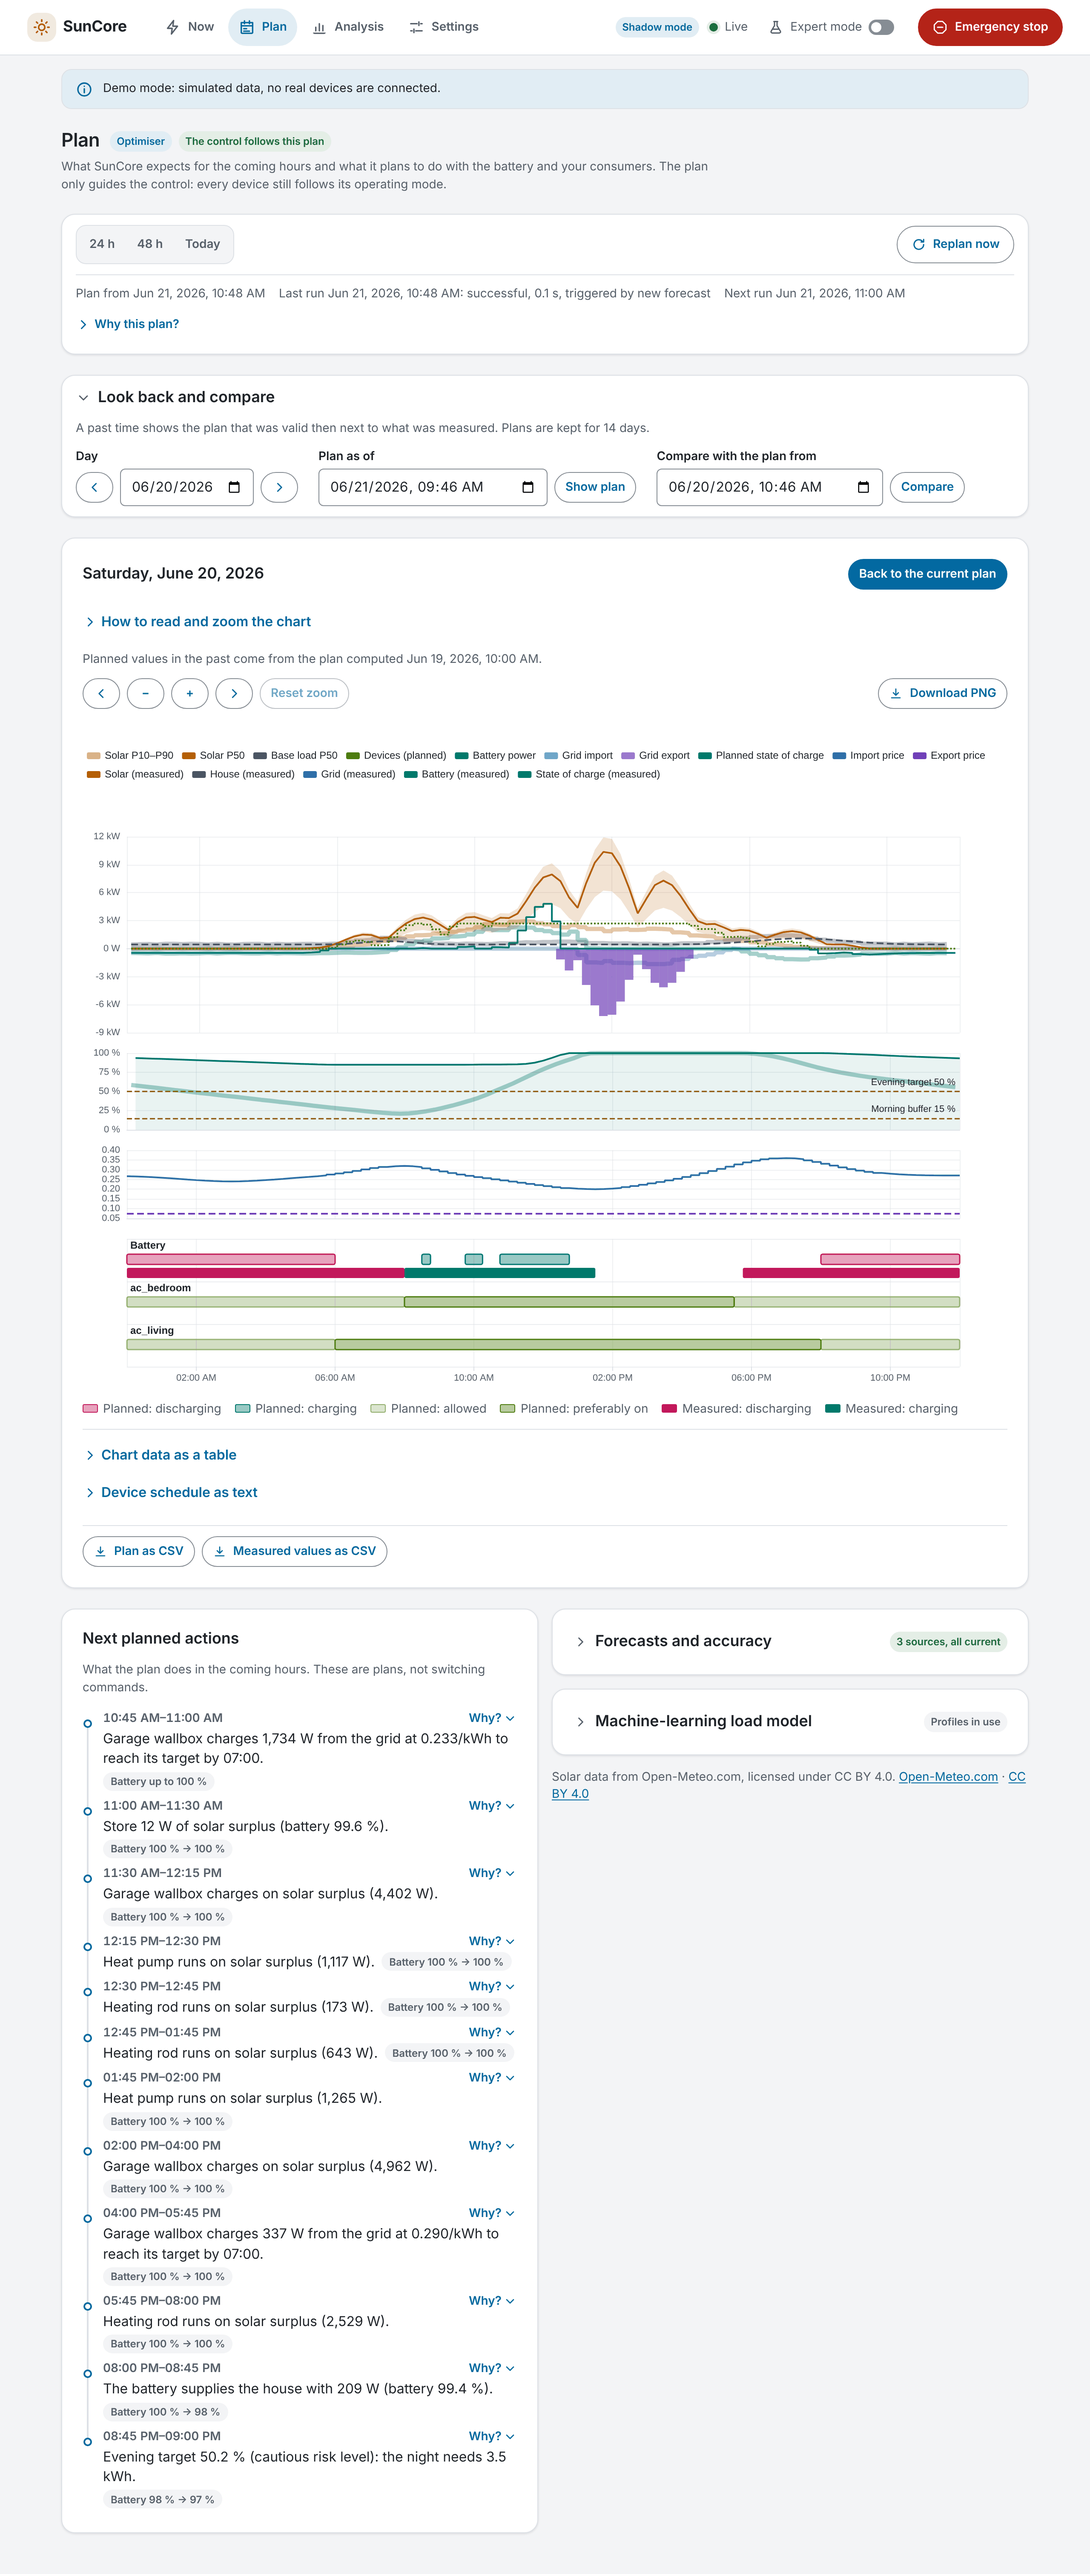
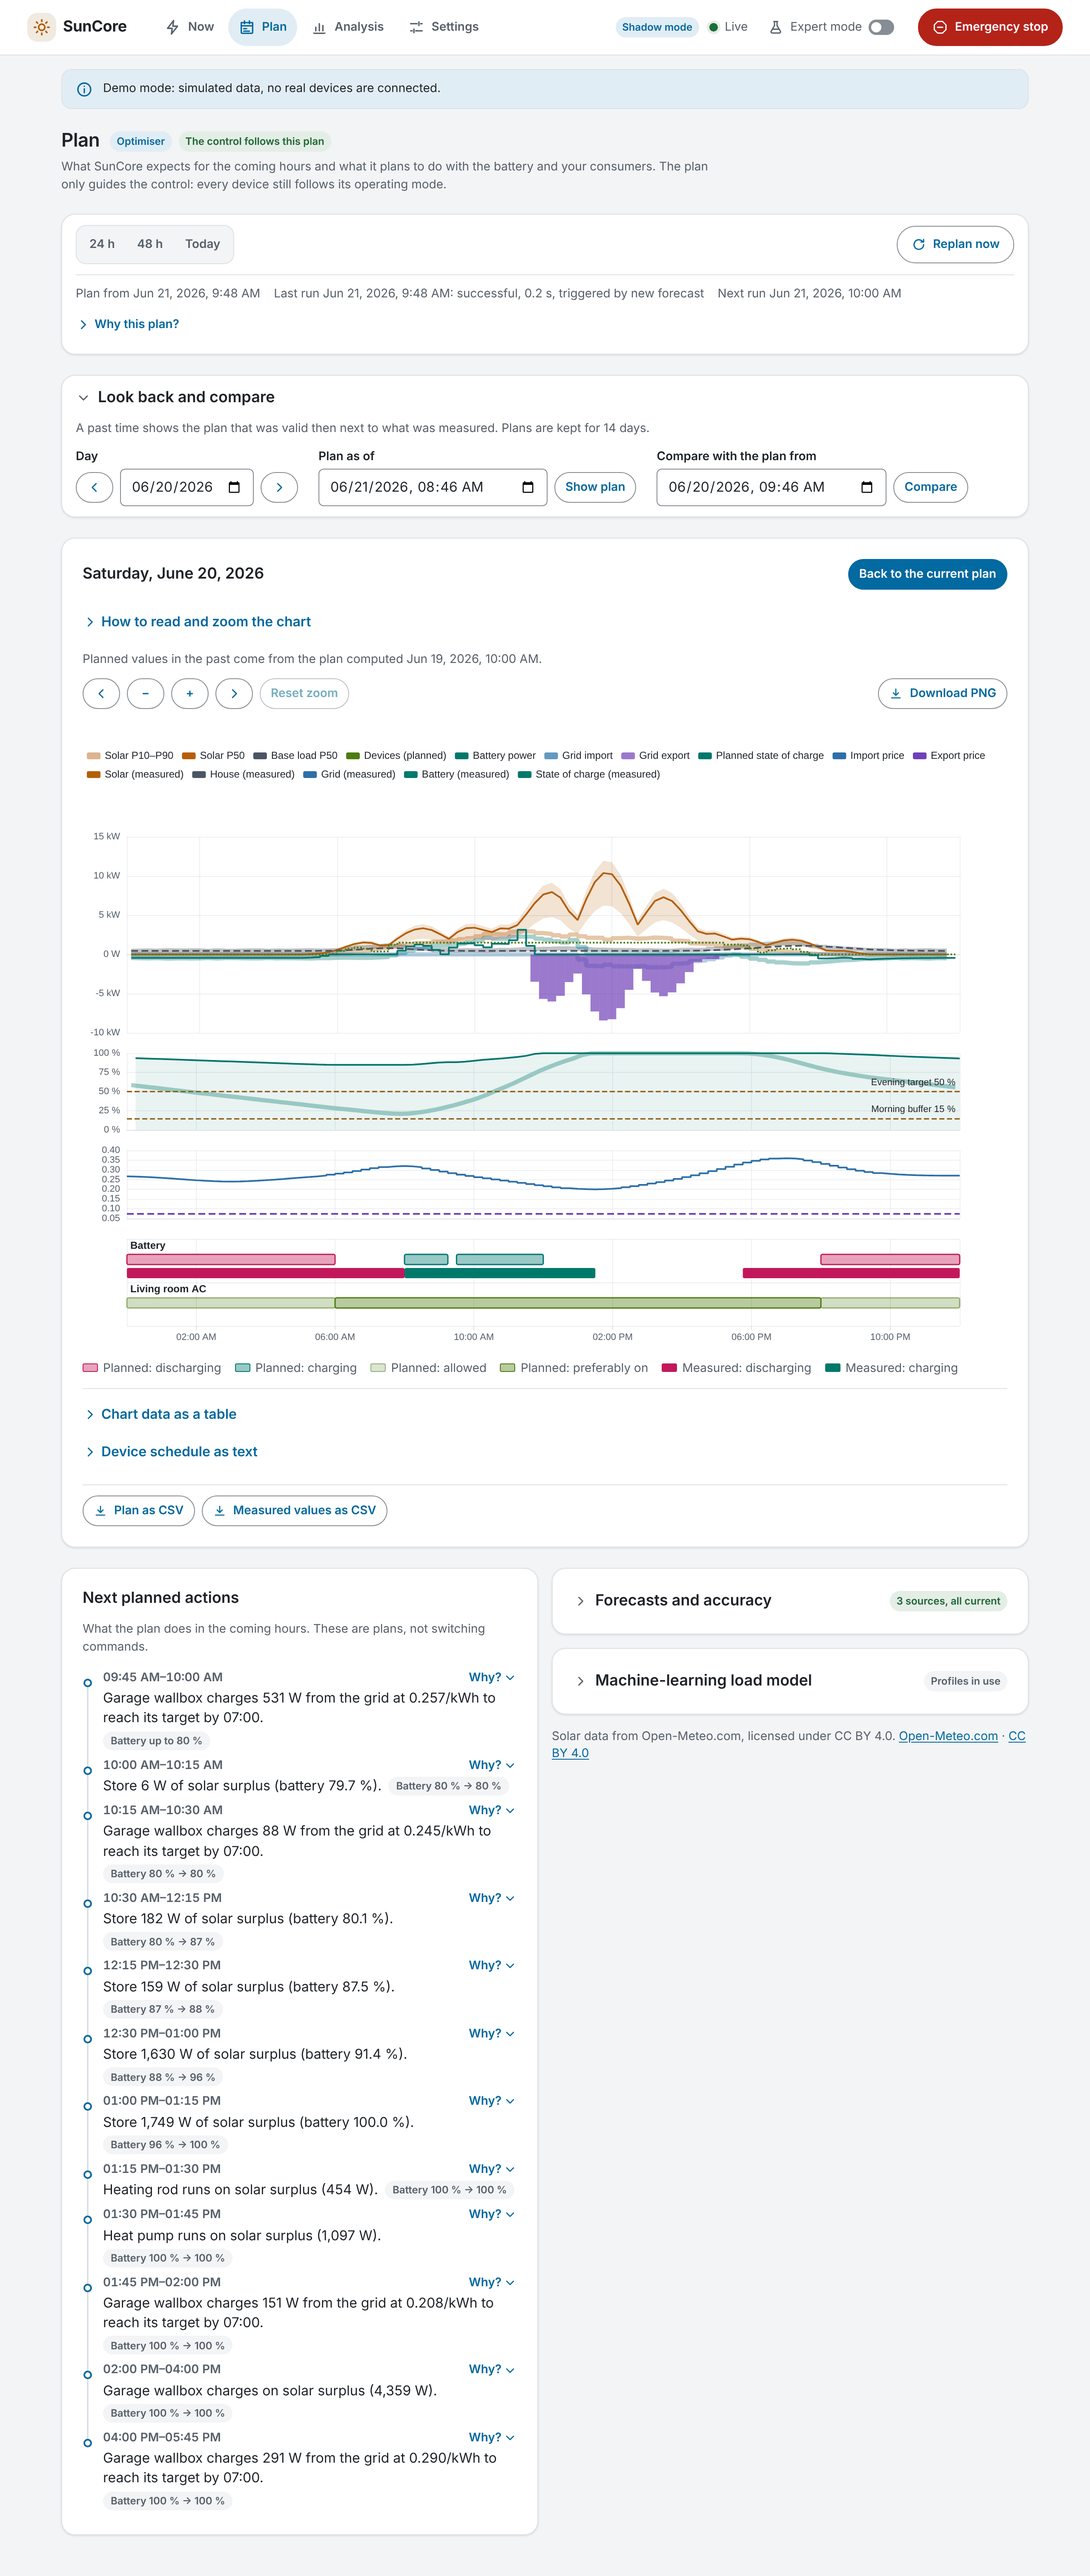
fix(frontend,sim): device names in the plan lanes, look-back collapsed
The demo's stored plans came from the planner's reference house
(ac_living, ac_bedroom), devices the demo does not configure, so the plan
chart's lanes, the schedule table and the tooltip showed raw ids.
seed_demo_plans now uses the demo's own air conditioner instead, and the
plan panel resolves names like tReason: the configured name, then the
name from the live feed, then the id of a device no longer configured.

"Look back and compare" starts collapsed so the chart comes first; only a
link to a past day, a time or a comparison opens it (today, also via the
range switch, keeps it closed). The plan spec checks that today keeps it
closed and opens it before stepping back a day.

Refreshed the Plan after-7f screenshots; plan section 8 and the review
page record the change.

Claude-Session: https://claude.ai/code/session_01RQbeZhexv6pzTs62CY98E3

diff --git a/frontend/src/lib/components/PlanChartPanel.svelte b/frontend/src/lib/components/PlanChartPanel.svelte
@@ -27,7 +27,8 @@
   import { buildChartData, targetLines, type ChartData } from '../plan/model';
   import { parseTime, targetHash, targetWindow, todayOf, type PlanTarget } from '../plan/target';
   import { localInputValue, parseLocalInput, zonedMs } from '../plan/zone';
-  import { app } from '../stores/app.svelte';
+  import { deviceName as configuredName } from '../control/reasonText';
+  import { live as liveFeed } from '../stores/live.svelte';
   import { PlanChartStore, type ChartRequest } from '../stores/planChart.svelte';
   import { plan } from '../stores/plan.svelte';
   import { router } from '../router.svelte';
@@ -110,8 +111,16 @@
     };
   });
 
-  const deviceName = (id: string): string =>
-    app.devices?.devices?.find((d) => d.id === id)?.name ?? id;
+  /**
+   * Display name of a device in the lanes, the schedule table, the tooltip and the comparison:
+   * the configured name (as in the reasons, `tReason`), else the name the live feed reports,
+   * else the id (a device that is no longer configured).
+   */
+  const deviceName = (id: string): string => {
+    const name = configuredName(id);
+    if (name !== id) return name;
+    return liveFeed.control?.devices.find((d) => d.device_id === id)?.name ?? id;
+  };
   const refMs = $derived(referenceTime(target, win, nowMs));
   const multiDay = $derived(win.toMs - win.fromMs > 26 * 3_600_000);
   const when = (ms: number): string => (multiDay ? tDateTime(new Date(ms)) : tTime(new Date(ms)));
@@ -166,6 +175,11 @@
     if (ms !== null) router.go(targetHash(target, ms));
   };
   const live = (): void => router.go('#/plan');
+  // Collapsed by default, so the chart comes first; a link to a past day, a time or a comparison
+  // opens it (today, also through the range switch, keeps it closed).
+  const lookbackOpen = $derived(
+    target.kind === 'at' || (target.kind === 'day' && target.day < today) || compareMs !== null,
+  );
 
   // --- text alternatives ------------------------------------------------------------------
 
@@ -222,7 +236,7 @@
 <Card
   title={t('plan.lookback.title')}
   collapsible
-  open={target.kind !== 'live' || compareMs !== null}
+  open={lookbackOpen}
   density="compact"
   testid="plan-lookback"
 >

diff --git a/frontend/e2e/plan.spec.ts b/frontend/e2e/plan.spec.ts
@@ -151,6 +151,9 @@ test.describe('Plan view', () => {
     await page.goto('/#/plan');
     await page.getByTestId('range-day').click();
     await expect(page).toHaveURL(/#\/plan\?day=/);
+    // Today keeps "Look back and compare" closed; a past day opens it.
+    await expect(page.getByTestId('day-prev')).toBeHidden();
+    await openCard(page, 'plan-lookback');
     await page.getByTestId('day-prev').click();
     await expect(page).toHaveURL(/#\/plan\?day=2026-06-20/);
     await expect(page.getByTestId('day-input')).toHaveValue('2026-06-20');

diff --git a/suncore/sim/demo_history.py b/suncore/sim/demo_history.py
@@ -22,7 +22,7 @@ import asyncio
 import math
 import random
 from collections.abc import Sequence
-from dataclasses import dataclass
+from dataclasses import dataclass, replace
 from datetime import UTC, date, datetime, time, timedelta, tzinfo
 from pathlib import Path
 from typing import Final
@@ -444,18 +444,27 @@ async def seed_demo_decisions(
 async def seed_demo_plans(plans: PlanSnapshotStore, *, now: datetime, count: int = 3) -> int:
     """A few plan snapshots of the planner's reference scenario (one per recent day).
 
-    They come from ``planner_scenarios.reference_situation`` (the maintainer's house, not the
-    demo's own devices): the plan chart needs real, solved plans to show. Each run is short
-    (budget 1 s) and runs in a worker thread.
+    They come from ``planner_scenarios.reference_situation`` (the maintainer's house): the plan
+    chart needs real, solved plans to show. Its two climate devices are replaced by the demo's
+    own air conditioner, so the stored plans name a device the demo configures (the panel shows
+    its name, not an unknown id). Each run is short (budget 1 s) and runs in a worker thread.
     """
     from suncore.planner.run import plan  # noqa: PLC0415
-    from suncore.sim.planner_scenarios import reference_situation, situation_inputs  # noqa: PLC0415
+    from suncore.sim.demo_devices import AC_DEVICE_ID  # noqa: PLC0415
+    from suncore.sim.planner_scenarios import (  # noqa: PLC0415
+        climate,
+        reference_situation,
+        situation_inputs,
+    )
 
     written = 0
     base = now.astimezone(UTC).replace(minute=0, second=0, microsecond=0)
     for k in range(count, 0, -1):
         at = base - timedelta(days=k, hours=-1)
-        built = await asyncio.to_thread(plan, situation_inputs(reference_situation(now=at)), 1.0)
+        situation = replace(
+            reference_situation(now=at), devices=(climate(AC_DEVICE_ID, 1500.0, value=0.12),)
+        )
+        built = await asyncio.to_thread(plan, situation_inputs(situation), 1.0)
         await plans.save(
             built.model_dump(mode="json"),
             source=built.source,

diff --git a/tests/app/test_demo_history.py b/tests/app/test_demo_history.py
@@ -157,6 +157,9 @@ async def test_demo_decisions_and_plans(tmp_path: Path) -> None:
         newest = await plans.latest()
         assert newest is not None
         assert newest.payload["intervals"]
+        # The stored plans name the demo's own air conditioner, a device the demo configures.
+        planned = {d for i in newest.payload["intervals"] for d in (i.get("devices") or {})}
+        assert planned == {"living_room_ac"}
 
 
 async def test_the_demo_runtime_seeds_its_throw_away_database(tmp_path: Path) -> None:

diff --git a/docs/design/review-7f.md b/docs/design/review-7f.md
@@ -19,8 +19,9 @@ Testdatei (`e2e/review-shots.spec.ts`, neu: Plan live, Entscheidungsprotokoll, W
 | --- | --- | --- |
 | Kopf | Titel, zwei graue Kästchen, langer Einleitungstext | Titel mit farbigen Chips (Optimierer, „Die Steuerung folgt diesem Plan“ grün; veraltet gelb), Einleitung darunter in Lesebreite |
 | Steuerung und Planer | zwei Karten: Zeitraum + „Jetzt neu planen“, darunter „Planer“ mit drei Zeilen in zwei Spalten und „Warum?“ | eine Werkzeugleiste: Umschalter 24 h · 48 h · Heute (wie die Modus-Umschalter auf „Jetzt“), „Jetzt neu planen“ rechts; darunter eine ruhige Zeile „Plan von … · Letzter Lauf … · Nächster Lauf …“ und „Warum dieser Plan?“ eingeklappt |
-| Zurückblicken | eigene Karte mit aufklappbarem Text-Link | einklappbare Karte; offen, sobald ein Tag, ein Zeitpunkt oder ein Vergleich gewählt ist; Tag vor/zurück als Pfeil-Symbole |
+| Zurückblicken | eigene Karte mit aufklappbarem Text-Link | einklappbare Karte, anfangs zu (das Diagramm kommt zuerst); offen nur bei einem Link auf einen vergangenen Tag, einen Zeitpunkt oder einen Vergleich; Tag vor/zurück als Pfeil-Symbole |
 | Diagramm | Karte mit Titel, langem Bedienhinweis, Zoom-Leiste, Diagramm, CSV-Links; Tabelle und Geräteplan als zwei weitere Karten | eine Karte: Bedienhinweis hinter „Diagramm lesen und zoomen“, „Zurück zum aktuellen Plan“ oben rechts im Kartenkopf; Tabelle, Geräteplan und Vergleich als Aufklapper in derselben Karte; CSV-Links mit Symbol in der Fußzeile |
+| Gerätezeilen im Diagramm | Kennungen wie „ac_bedroom“, „ac_living“ (die gespeicherten Demo-Pläne stammten vom Referenzhaus des Planers) | Anzeigenamen wie in den Begründungen („Living room AC“), auch in der Geräteplan-Tabelle und im Tooltip; die Demo speichert ihre Pläne jetzt mit ihrer eigenen Klimaanlage |
 | Nächste Aktionen | volle Breite unter dem Diagramm | links neben den Prognosen (Desktop), gleiche Zeitleiste wie auf „Jetzt“ |
 | Prognosen und ML-Lastmodell | eine lange Karte mit vier Tabellen, immer offen | zwei einklappbare Karten mit Status-Chip im Kopf („3 Quellen, alle aktuell“ bzw. „x Quellen prüfen“; „Profile aktiv“/„Modell aktiv“); Inhalt unverändert. Die Open-Meteo-Quellenangabe bleibt immer sichtbar unter den Karten (Lizenz) |
 

diff --git a/docs/plans/phase-7.md b/docs/plans/phase-7.md
@@ -993,6 +993,13 @@ dashboard look beyond the recipe; any change of the contracts `Plan`, `Intent`, 
   widened the card and the page on a 375 px phone (Chrome then zoomed out and the clicks missed).
   Both now use one `minmax(0, 1fr)` column; the plan spec checks for no sideways scroll with
   the forecast cards open.
+- **After the coordinator's review:** the demo's stored plans came from the planner's reference
+  house (`ac_living`, `ac_bedroom`), devices the demo does not configure, so the Gantt lanes,
+  the schedule table and the tooltip showed raw ids. `seed_demo_plans` now replaces those two by
+  the demo's own air conditioner (`living_room_ac`); the plan panel resolves names like
+  `tReason` (configured name, then the live feed's name, then the id of a device no longer
+  configured). "Look back and compare" starts collapsed and opens only for a link to a past
+  day, a time or a comparison (today, also via the range switch, keeps it closed).
 - Merged `origin/phase-7/e-now` at `1b2eeb4` (deterministic demo washer test) before the final
   checks.
 - `review-shots.spec.ts` gained the views `plan-live`, `decisions` and `whatif` (expert mode via
